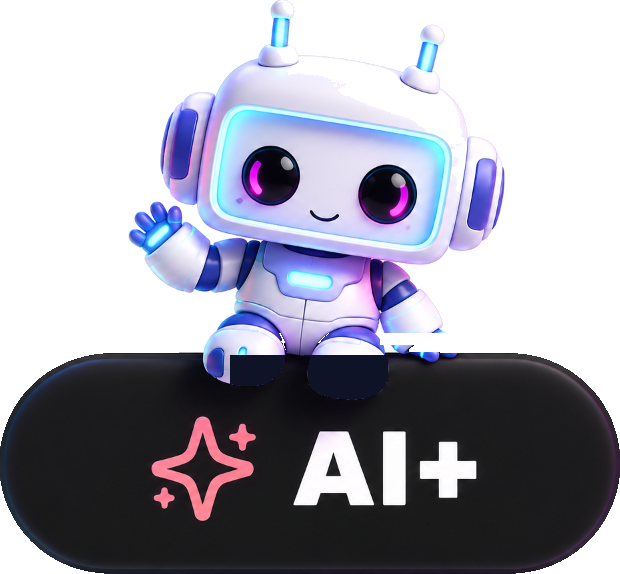
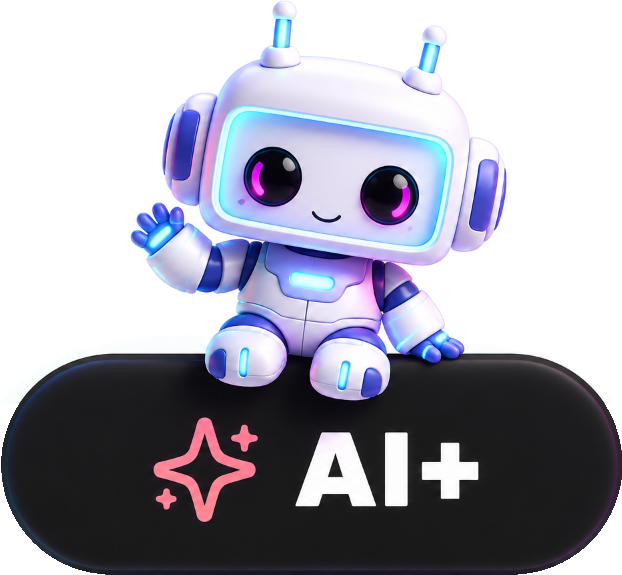
fix(ui): restore 100% solid opaque robot head and render crystal clear authentic image

diff --git a/frontend/src/components/FloatingAIAssistant.tsx b/frontend/src/components/FloatingAIAssistant.tsx
@@ -108,65 +108,26 @@ export function FloatingAIAssistant() {
           whileHover={{ scale: 1.05 }}
           whileTap={{ scale: 0.95 }}
           transition={{ type: 'spring', stiffness: 400, damping: 25 }}
-          className="relative block w-[115px] sm:w-[140px] md:w-[150px] aspect-[620/574] focus:outline-none transition-all drop-shadow-[0_10px_24px_rgba(0,0,0,0.35)] hover:drop-shadow-[0_14px_30px_rgba(236,72,153,0.35)]"
+          className="relative block w-[115px] sm:w-[140px] md:w-[150px] aspect-[622/575] focus:outline-none transition-all drop-shadow-[0_10px_24px_rgba(0,0,0,0.35)] hover:drop-shadow-[0_14px_32px_rgba(236,72,153,0.35)]"
           title="WebinarFlow AI+ Assistant — Click to open"
           aria-label="WebinarFlow AI+ Assistant"
         >
-          {/* Stationary Layer: Robot Torso, Face, Head, Arms & AI+ Pill Button */}
-          <img
-            src="/ai-robot-body.png"
-            alt="WebinarFlow AI+ Robot"
-            className="w-full h-full object-contain pointer-events-none select-none"
-          />
-
-          {/* Left Leg: Gently swings forward and backward in cute idle motion */}
+          {/* Subtle Cute Idle Sway Motion */}
           <motion.div
-            className="absolute pointer-events-none"
-            style={{
-              left: `${(232 / 620) * 100}%`,
-              top: `${(320 / 574) * 100}%`,
-              width: `${(85 / 620) * 100}%`,
-              height: `${(85 / 574) * 100}%`,
-              transformOrigin: '50% 12%',
-            }}
+            className="w-full h-full"
             animate={{
-              rotate: [-7, 7, -7],
+              y: [0, -3.5, 0],
+              rotate: [0, 0.6, 0, -0.6, 0],
             }}
             transition={{
-              duration: 2.2,
+              duration: 3,
               repeat: Infinity,
               ease: 'easeInOut',
             }}
           >
             <img
-              src="/leg-left.png"
-              alt=""
-              className="w-full h-full object-contain pointer-events-none select-none"
-            />
-          </motion.div>
-
-          {/* Right Leg: Gently swings in opposition for natural adorable idle rhythm */}
-          <motion.div
-            className="absolute pointer-events-none"
-            style={{
-              left: `${(312 / 620) * 100}%`,
-              top: `${(325 / 574) * 100}%`,
-              width: `${(90 / 620) * 100}%`,
-              height: `${(90 / 574) * 100}%`,
-              transformOrigin: '50% 12%',
-            }}
-            animate={{
-              rotate: [7, -7, 7],
-            }}
-            transition={{
-              duration: 2.2,
-              repeat: Infinity,
-              ease: 'easeInOut',
-            }}
-          >
-            <img
-              src="/leg-right.png"
-              alt=""
+              src="/ai-robot-clean.png"
+              alt="WebinarFlow AI+ Robot"
               className="w-full h-full object-contain pointer-events-none select-none"
             />
           </motion.div>
